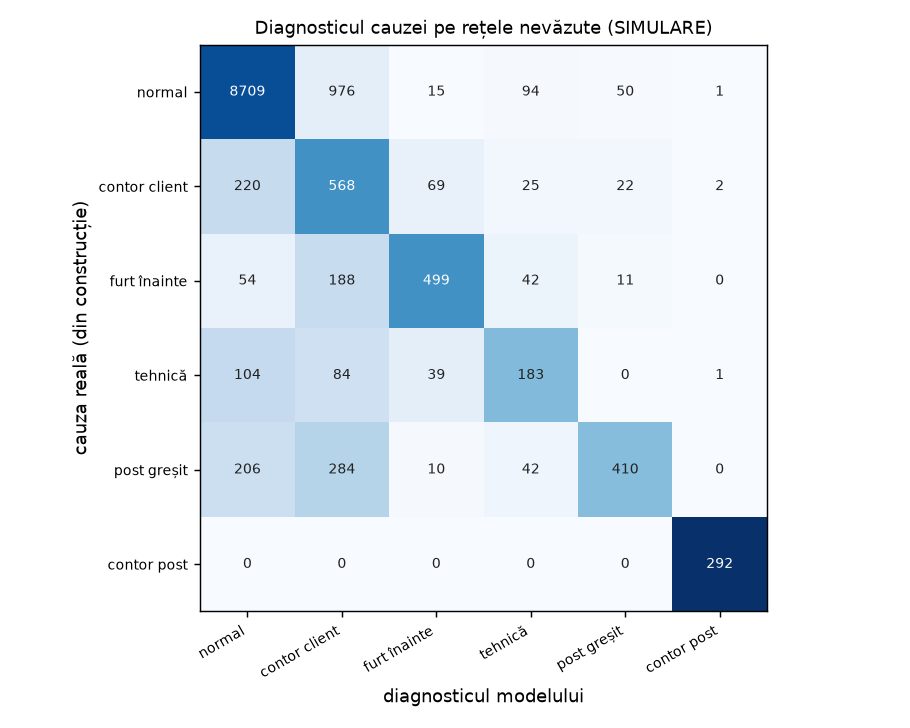
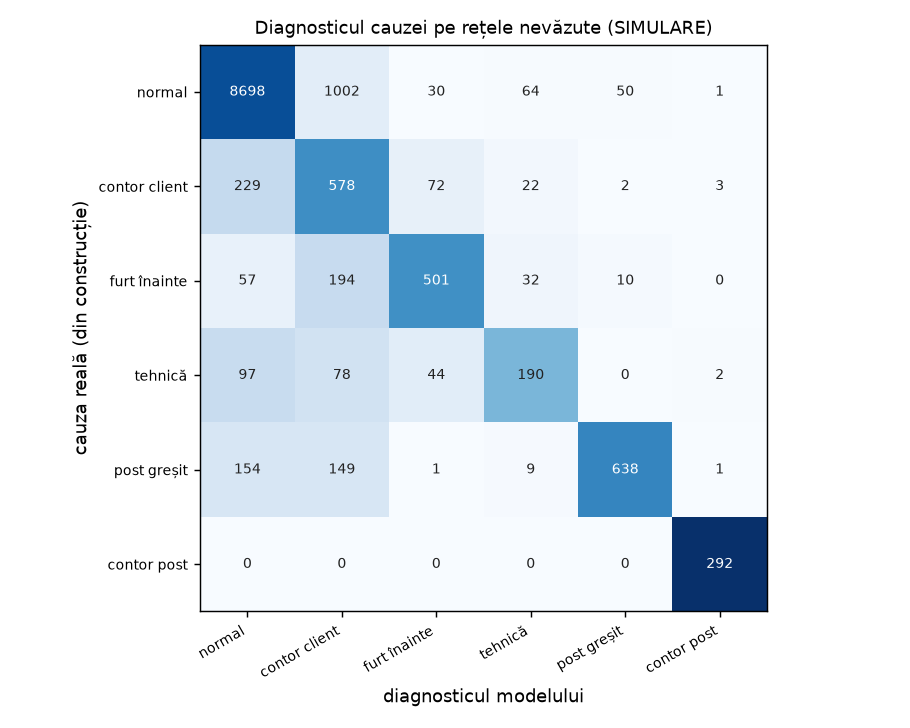
Bilanț: identificarea topologiei din tensiuni (client la postul greșit 0,57 → 0,77, F1 macro 0,71); rezumatul perechii; fișa modelului și cifrele pentru prezentare la zi

diff --git a/src/cyberpunks/a_bilant/dataset.py b/src/cyberpunks/a_bilant/dataset.py
@@ -251,6 +251,11 @@ def run_post(args: tuple[dict, dict, str]) -> dict:
         moved["rec"] = np.where(day >= moved["onset"], imp[moved["customer"]], 0.0).astype("float32")
         moved["volt"] = w.cust_voltage[moved["customer"]]
     vmed = np.median(w.cust_voltage[keep], axis=0)
+    # candidatul pentru „legat fizic la alt post”: contorul din bază cu tensiunea cea mai puțin asemănătoare cu a postului,
+    # pe toată perioada (simplificare: un singur candidat pe post)
+    all_h = np.arange(T)
+    cc_all = _vcorr(w.cust_voltage[keep], vmed, all_h)
+    cand_volt = w.cust_voltage[np.flatnonzero(keep)[int(np.argmin(cc_all))]].astype("float32")
 
     # semnalele contoarelor, pe zi: zi cu zero, zi blocată (24 de valori egale), consum negativ noaptea la neprosumatori
     cust_daily = np.zeros((n, D))
@@ -331,9 +336,43 @@ def run_post(args: tuple[dict, dict, str]) -> dict:
         "bal_h": w.balance_kwh.astype("float32"),
         "db_h": db.astype("float32"),
         "vmed": vmed.astype("float32"),
+        "cand_volt": cand_volt,
         "moved": moved,
         "seconds": time.perf_counter() - t0,
     }
+
+
+def voltage_topology(res: dict, nb: dict, wx: world.Weather, ev: list[int]) -> pd.DataFrame:
+    """Identificarea topologiei din tensiuni (Short 2013; comparația din 2022, `docs/research/bilant_lit.md`).
+
+    Pentru candidații fiecărui post (contorul cu tensiunea cea mai ciudată și, la receptor, clientul venit din altă
+    parte, care e în baza lui), pe fereastra de 14 zile:
+    - `volt_elsewhere`: cât de mult seamănă un candidat mai bine cu un vecin decât cu postul lui (corelație vecin − proprie);
+    - `volt_claimed`: cât de mult seamănă candidatul unui vecin mai bine cu acest post decât cu postul lui.
+    """
+    cands: dict[str, list[np.ndarray]] = {k: [r["cand_volt"]] for k, r in res.items()}
+    for r in res.values():
+        mv = r["moved"]
+        if mv and mv["receiver"] in cands:
+            cands[mv["receiver"]].append(mv["volt"])
+    rows = []
+    for e in ev:
+        hours = np.flatnonzero((wx.local_day > e - WINDOW) & (wx.local_day <= e))
+        gain: dict[str, float] = {}
+        claim: dict[str, float] = {}
+        for p, cl in cands.items():
+            qs = [q for q in nb.get(p, []) if q in res]
+            if not qs:
+                continue
+            V = np.stack(cl)
+            own = _vcorr(V, res[p]["vmed"], hours)
+            for q in qs:
+                g = _vcorr(V, res[q]["vmed"], hours) - own
+                gain[p] = max(gain.get(p, -1.0), float(g.max()))
+                claim[q] = max(claim.get(q, -1.0), float(g.max()))
+        for p in res:
+            rows.append({"post_id": p, "day": e, "volt_elsewhere": gain.get(p, 0.0), "volt_claimed": claim.get(p, 0.0)})
+    return pd.DataFrame(rows)
 
 
 def eval_days(D: int) -> list[int]:
@@ -430,6 +469,7 @@ def build(pool: str, workers: int = 4, limit: int | None = None) -> pd.DataFrame
         vc.loc[better, "vcorr_min"] = vc.loc[better, "moved_corr"]
         vc.loc[better, "vcorr_min_customer"] = -1  # clientul venit din altă parte
         vc = vc.drop(columns="moved_corr")
+    vc = vc.merge(voltage_topology(res, neighbors(meta), wx, ev), on=["post_id", "day"], how="left")
     posts = pd.DataFrame([{"post_id": k, **{a: b for a, b in r["static"].items() if not isinstance(b, list)}} for k, r in res.items()]).merge(meta, on="post_id", how="left")
     out = OUT / pool
     out.mkdir(parents=True, exist_ok=True)

diff --git a/src/cyberpunks/a_bilant/predict.py b/src/cyberpunks/a_bilant/predict.py
@@ -350,6 +350,13 @@ def run(scenario: str, date: str | None = None, pool: str = "pop") -> Path:
         who = f"{CLASS_RO[label]}, probabil clientul {extra['suspect_meter']} ({extra['suspect_meter_reason_ro']})" if label == "contor_client" and "suspect_meter" in extra else CLASS_RO[label]
         if r["abstain"]:
             summary = f"Postul {pid}: ~{lei_month:.0f} lei pe lună pierduți peste normal. Nu sunt sigur de cauză ({r['abstain_reason']}): {CLASS_RO[label]} {r['p_label']:.0%} sau {CLASS_RO[r['second']]} {r['p_second']:.0%}. Decide un om."
+        elif label == "client_post_gresit":
+            side = "lipsă" if float(r["r_mean_kwh"]) > 0 else "surplus"
+            mirror = str(r.get("mirror_post") or "")
+            if mirror:
+                extra["pair_post"] = mirror
+            other = f" Perechea probabilă: {mirror}." if mirror else ""
+            summary = f"Postul {pid}: {side} de ~{abs(float(r['r_mean_kwh'])):.1f} kWh/zi (~{lei_month:.0f} lei pe lună contați la postul greșit). Cauza probabilă ({r['p_label']:.0%}): client trecut la postul greșit în bază; tensiunea contorului seamănă cu a altui post.{other} Recomand: {ACTION_RO[action]}."
         elif label == "contor_bilant_setat":
             summary = f"Postul {pid}: contorul postului arată de {r['bal_db_ratio']:.2f} ori suma clienților ({r['p_label']:.0%} contor de post setat greșit). Lipsa de ~{r['r_mean_kwh']:.0f} kWh/zi e doar pe hârtie. Recomand: {ACTION_RO[action]} (raportul de transformare)."
         else:

diff --git a/src/cyberpunks/a_bilant/windows.py b/src/cyberpunks/a_bilant/windows.py
@@ -57,6 +57,8 @@ WIN_FEATURES = [
     "quad_ratio",
     "intercept_jump_kwh_h",
     "linear_jump",
+    "volt_elsewhere",
+    "volt_claimed",
 ]
 # calculate și salvate, dar scoase din model: au ridicat pierderea tehnică (F1 0,46 → 0,47) și au coborât F1 macro
 # (0,668 → 0,658), diferențe în zgomot (7 nov., 15:15)
@@ -195,8 +197,10 @@ def build_windows(d: pd.DataFrame, pred: pd.DataFrame, pool: str, days: list[int
             try:
                 v = vc.loc[(p, e)]
                 vmin, vgap = float(v["vcorr_min"]), float(v["vcorr_med"] - v["vcorr_min"])
+                v_else = float(v.get("volt_elsewhere", 0.0) or 0.0)
+                v_claim = float(v.get("volt_claimed", 0.0) or 0.0)
             except KeyError:
-                vmin, vgap = 1.0, 0.0
+                vmin, vgap, v_else, v_claim = 1.0, 0.0, 0.0, 0.0
             lab = w.iloc[-1]
             cls = lab["true_class"]
             ex = float(w["true_excess_kwh"].mean())
@@ -241,6 +245,8 @@ def build_windows(d: pd.DataFrame, pred: pd.DataFrame, pool: str, days: list[int
                     "loss_ratio_cv": float(np.std(ratio_d) / max(abs(np.mean(ratio_d)), 0.1)),
                     "ratio_vs_gis": ratio_gis,
                     "r_vs_gis_kwh": r_gis,
+                    "volt_elsewhere": v_else,
+                    "volt_claimed": v_claim,
                     "quad_ratio": q_ratio,
                     "intercept_jump_kwh_h": a_jump,
                     "linear_jump": b_jump,

diff --git a/reports/bilant/error_analysis.md b/reports/bilant/error_analysis.md
@@ -42,37 +42,37 @@ Corect, după cât timp a trecut de la apariția problemei (fereastra are 14 zil
 
 | de când există problema | ferestre | corect_model | corect_reguli |
 |---|---|---|---|
-| 0-3 zile | 231 | 0.59 | 0.14 |
-| 4-7 | 257 | 0.62 | 0.15 |
-| 8-14 | 327 | 0.64 | 0.24 |
-| 15-30 | 445 | 0.67 | 0.29 |
-| 31-90 | 833 | 0.61 | 0.38 |
-| peste 90 | 1262 | 0.51 | 0.25 |
+| 0-3 zile | 231 | 0.64 | 0.14 |
+| 4-7 | 257 | 0.63 | 0.15 |
+| 8-14 | 327 | 0.67 | 0.24 |
+| 15-30 | 445 | 0.69 | 0.29 |
+| 31-90 | 833 | 0.70 | 0.38 |
+| peste 90 | 1262 | 0.62 | 0.25 |
 
 Corect, după mărimea lipsei reale:
 
 | lipsa reală | ferestre | corect_model | corect_reguli |
 |---|---|---|---|
-| sub 2 kWh/zi | 273 | 0.30 | 0.01 |
-| 2-5 | 492 | 0.47 | 0.06 |
-| 5-10 | 489 | 0.47 | 0.10 |
-| 10-25 | 844 | 0.51 | 0.23 |
-| peste 25 | 1257 | 0.78 | 0.51 |
+| sub 2 kWh/zi | 273 | 0.37 | 0.01 |
+| 2-5 | 492 | 0.58 | 0.06 |
+| 5-10 | 489 | 0.58 | 0.10 |
+| 10-25 | 844 | 0.60 | 0.23 |
+| peste 25 | 1257 | 0.82 | 0.51 |
 
 Confuziile cele mai dese:
 
-- pierdere normală → contor de client defect sau manipulat: 976 ferestre
-- client trecut la postul greșit în bază → contor de client defect sau manipulat: 284 ferestre
-- contor de client defect sau manipulat → pierdere normală: 220 ferestre
-- client trecut la postul greșit în bază → pierdere normală: 206 ferestre
-- furt înainte de contor → contor de client defect sau manipulat: 188 ferestre
-- pierdere tehnică (cablu, faze dezechilibrate) → pierdere normală: 104 ferestre
-- pierdere normală → pierdere tehnică (cablu, faze dezechilibrate): 94 ferestre
-- pierdere tehnică (cablu, faze dezechilibrate) → contor de client defect sau manipulat: 84 ferestre
+- pierdere normală → contor de client defect sau manipulat: 1002 ferestre
+- contor de client defect sau manipulat → pierdere normală: 229 ferestre
+- furt înainte de contor → contor de client defect sau manipulat: 194 ferestre
+- client trecut la postul greșit în bază → pierdere normală: 154 ferestre
+- client trecut la postul greșit în bază → contor de client defect sau manipulat: 149 ferestre
+- pierdere tehnică (cablu, faze dezechilibrate) → pierdere normală: 97 ferestre
+- pierdere tehnică (cablu, faze dezechilibrate) → contor de client defect sau manipulat: 78 ferestre
+- contor de client defect sau manipulat → furt înainte de contor: 72 ferestre
 
-- „Nu sunt sigur”: modelul se abține în 13.1% din ferestre. Acolo ar fi avut dreptate în 27% din cazuri, iar în rest în 89%. Abținerea scoate deci cazurile grele și le trimite la om.
+- „Nu sunt sigur”: modelul se abține în 12.7% din ferestre. Acolo ar fi avut dreptate în 33% din cazuri, iar în rest în 90%. Abținerea scoate deci cazurile grele și le trimite la om.
 - Problemele foarte noi (0-3 zile) se văd greu: fereastra are încă puține zile cu problemă. Cele foarte vechi (peste 90 de zile) intră treptat în istoricul postului, care învață „normalul” cu tot cu problemă. Pe date reale, istoricul trebuie învățat doar din perioade verificate (după vizita echipei), nu din toate zilele.
-- Cele mai dese confuzii sunt între contorul de client și pierderea normală, în ambele sensuri. Cauza e mărimea: un contor de client lipsește adesea doar câțiva kWh pe zi, cât eroarea pierderii normale (vezi tabelul pe mărimi). Sub 2 kWh/zi, modelul are dreptate doar în 30% din cazuri.
+- Cele mai dese confuzii sunt între contorul de client și pierderea normală, în ambele sensuri. Cauza e mărimea: un contor de client lipsește adesea doar câțiva kWh pe zi, cât eroarea pierderii normale (vezi tabelul pe mărimi). Sub 2 kWh/zi, modelul are dreptate doar în 37% din cazuri.
 - Clientul la postul greșit se confundă cel mai des cu contorul de client: la postul cu lipsă, un client „dispare” din bază, iar semnătura seamănă cu un contor oprit. Le desparte vecinul cu surplus egal, dar semnalul dispare când vecinul are și el o problemă sau când surplusul e mic față de eroarea pierderii normale.
 - Contorul de post setat greșit (×2) e prins aproape mereu: raportul post/clienți e un semnal foarte curat.
 
@@ -116,10 +116,10 @@ Pe tipuri de problemă (cele care nu schimbă totalul zilei, ca profilul inversa
 
 ### Unde ajută
 
-- **Cauzele pe care contoarele nu le văd deloc.** Doar contoarele (modelul A) găsesc 0 din aceste probleme, prin construcție: nu au cum să vadă un branșament direct, un cablu care pierde sau un contor de post setat greșit. Bilanțul găsește postul în: furt înainte de contor 74% (cauza corectă 55%), pierdere tehnică 65% (42%), contorul postului setat greșit 99% (99%), client la postul greșit 50% (30%) din ferestrele de test.
-- Energia: bilanțul găsește 85% din energia lipsă din aceste cauze, adică ~25.010 lei pe lună pe cele 300 de posturi ale hărții (la 0,70 lei/kWh). Din posturile marcate, 13% sunt de fapt normale.
+- **Cauzele pe care contoarele nu le văd deloc.** Doar contoarele (modelul A) găsesc 0 din aceste probleme, prin construcție: nu au cum să vadă un branșament direct, un cablu care pierde sau un contor de post setat greșit. Bilanțul găsește postul în: furt înainte de contor 74% (cauza corectă 55%), pierdere tehnică 64% (42%), contorul postului setat greșit 99% (99%), client la postul greșit 53% (42%) din ferestrele de test.
+- Energia: bilanțul găsește 85% din energia lipsă din aceste cauze, adică ~25.137 lei pe lună pe cele 300 de posturi ale hărții (la 0,70 lei/kWh). Din posturile marcate, 13% sunt de fapt normale.
 - Pe ziua demo, 48% din energia pierdută peste normal nu apare la niciun contor de client.
-- Diagnosticul cauzei bate tabelul de reguli din concept: F1 macro 0,67 față de 0,48. Clientul la postul greșit: 0,57 (reguli 0,34), după trăsătura „oglindă” (lipsa la un post și surplusul la vecin, zi de zi) și legarea celor două capete ale perechii. Pierderea tehnică: 0,46 (reguli 0,28).
+- Diagnosticul cauzei bate tabelul de reguli din concept: F1 macro 0,71 față de 0,48. Clientul la postul greșit: 0,77 (reguli 0,34), după trăsătura „oglindă” (lipsa la un post și surplusul la vecin, zi de zi) și legarea celor două capete ale perechii. Pierderea tehnică: 0,52 (reguli 0,28).
 - Planul B (unde montăm întâi contoarele de bilanț): `reports/bilant/plan_b.md`.
 - Când modelul de contoare e mai slab (calitatea SGCC, AUC 0,80), confirmarea din bilanț ridică lei recuperați în primele 10 verificări pe zi de la 126 la 456.
 
@@ -130,5 +130,5 @@ Pe tipuri de problemă (cele care nu schimbă totalul zilei, ca profilul inversa
 - De ce: un post are adesea mai multe contoare cu probleme deodată, iar lipsa de la post e suma lor, deci nu arată care contor e de vină. Problemele mici (sub 2 kWh/zi) se pierd în zgomotul pierderii normale. Tipurile care nu schimbă totalul zilei (profil inversat, ceas decalat, salturi) nu se văd deloc în bilanț.
 - **Să coboare scorul unui contor** pe un post fără lipsă: pe scorurile reale ale lui A asta strica lista (AUC 0,918 → 0,907), așa că fuziunea doar confirmă.
 - **Să rezolve „nu sunt sigur” al lui A:** pe ziua demo, 0 din 5 cazuri corecte. Funcția e oprită.
-- Contorul de client în lumea cu defectele lui A: F1 0,38. Multe tipuri ale lui A au lipsă mică sau zero la totalul zilei.
+- Contorul de client în lumea cu defectele lui A: F1 0,40. Multe tipuri ale lui A au lipsă mică sau zero la totalul zilei.
 

diff --git a/reports/bilant/model_card.md b/reports/bilant/model_card.md
@@ -33,22 +33,22 @@ Pe lotul hărții, defectele de contor sunt exact cele ale firului A (`A_ground_
 | Pierderea normală, MAE (kWh/zi) | **5,30** (14% din 37,0) | formula fizică I²R 14,91; procent fix 20,59 |
 | Același, fără istoricul postului | 12,56 | - |
 | Acoperirea intervalului P10-P90 | 88,1% | formula fizică 86,6% (interval de ~10 ori mai larg) |
-| Diagnosticul, F1 macro | **0,67** | tabelul de reguli din concept 0,48 |
-| Diagnosticul, exactitate | 0,81 | 0,78 |
+| Diagnosticul, F1 macro | **0,71** | tabelul de reguli din concept 0,48 |
+| Diagnosticul, exactitate | 0,83 | 0,78 |
 | Primele 10 posturi pe zi prind din energia lipsă | 85% | 80% |
 | **Energia pierdută pe care niciun contor de client nu o vede** (furt înainte de contor, pierderi tehnice peste normal, client la postul greșit), ziua demo | **48%** | o vede doar bilanțul |
 | Planul B: energia lipsă găsită cu contoare la 20% din posturi | **36%** | la întâmplare 20%; posturile mari întâi 23% |
 
-F1 pe clase (model / reguli): contor de post setat greșit 0,99 / 0,87, normal 0,91 / 0,90, furt înainte de contor 0,70 / 0,35, client la postul greșit 0,57 / 0,34, pierdere tehnică 0,46 / 0,28, contor de client 0,38 / 0,16. Clientul la postul greșit a urcat de la 0,32 la 0,57 cu trăsătura „oglindă” (lipsa la un post și surplusul la vecin, zi de zi, corelate negativ) și cu legarea celor două capete ale perechii (`diagnose.pair_consistency`).
+F1 pe clase (model / reguli): contor de post setat greșit 0,99 / 0,87, normal 0,91 / 0,90, client la postul greșit 0,77 / 0,34, furt înainte de contor 0,70 / 0,35, pierdere tehnică 0,52 / 0,28, contor de client 0,40 / 0,16. Clientul la postul greșit a urcat de la 0,32 la 0,77 în trei pași: trăsătura „oglindă” (lipsa zilnică la un post corelată negativ cu surplusul vecinului), legarea celor două capete ale perechii (`diagnose.pair_consistency`) și identificarea topologiei din tensiuni (contorul cu tensiunea cea mai ciudată seamănă mai bine cu un vecin decât cu postul lui; `dataset.voltage_topology`).
 
 ### Ce vede doar bilanțul (A are 0 prin construcție)
 
 | Cauza | Postul găsit | și cauza corectă | Energia lipsă găsită |
 |---|---|---|---|
 | furt înainte de contor | 74% | 55% | 86% |
-| pierdere tehnică (cabluri, faze) | 65% | 42% | 95% |
+| pierdere tehnică (cabluri, faze) | 64% | 42% | 95% |
 | contorul postului setat greșit | 99% | 99% | (lipsă doar pe hârtie) |
-| client la postul greșit | 50% | 30% | 70% |
+| client la postul greșit | 53% | 42% | 72% |
 | **total** | | | **85%, ~25.000 lei pe lună** pe cele 300 de posturi |
 
 Din posturile marcate, 13% sunt de fapt normale. Figura: `reports/bilant/bilant_only_causes.png`.
@@ -78,7 +78,7 @@ Modelul se abține și trimite la om (`human_review`) când:
 - primele două cauze sunt la mai puțin de 15 puncte;
 - intervalul pierderii normale e de peste 3 ori mai larg decât lipsa.
 
-Se abține în 13,1% din ferestre; detaliile sunt în `reports/bilant/error_analysis.md`. Posturile fără contor de bilanț nu primesc lucrare de pierderi: trec pe planul B.
+Se abține în 12,7% din ferestre; detaliile sunt în `reports/bilant/error_analysis.md`. Posturile fără contor de bilanț nu primesc lucrare de pierderi: trec pe planul B.
 
 ## Limite cunoscute
 
@@ -87,7 +87,7 @@ Se abține în 13,1% din ferestre; detaliile sunt în `reports/bilant/error_anal
 - Precizia absolută din testul simulat e mică pentru că problemele noi sunt rare: ~10 contoare pe zi din ~24.000.
 - „Nu sunt sigur” al lui A nu se rezolvă automat cu bilanțul. Am încercat; pe ziua demo, cele 5 cazuri rezolvate nu aveau nicio problemă reală. Codul există, dar e oprit (`fuse.RESOLVE_ABSTAIN`).
 - Problemele mici (sub 2 kWh/zi) se confundă cu zgomotul pierderii normale. Problemele foarte vechi (peste 90 de zile) intră treptat în istoricul postului. Istoricul ar trebui învățat doar din perioade verificate.
-- Clientul la postul greșit: recall 43%. Postul donator e prins mai greu decât cel cu surplus. Pierderea tehnică veche (peste 60 de zile) sau mică (sub 10 kWh/zi) scapă des, pentru că istoricul postului o învață ca normală.
+- Clientul la postul greșit: recall 67%, precizie 91%. Tensiunea e simulată din calculul de rețea; pe date reale, contoarele trebuie să trimită tensiunea (multe o fac, la 15 minute). Pierderea tehnică veche (peste 60 de zile) sau mică (sub 10 kWh/zi) scapă des, pentru că istoricul postului o învață ca normală.
 - Fazele nu se măsoară direct: dezechilibrul e estimat din pierderi (`extra.phase_rebalance_input`).
 
 ## Bucla de învățare

diff --git a/reports/bilant/demo_posts.md b/reports/bilant/demo_posts.md
@@ -18,15 +18,15 @@ SIMULARE pe date publice, gândită pentru datele PPC. Fiecare caz e verificat c
 ## 3. Contorul postului setat greșit
 
 - **PT-1210**: Postul PT-1210: contorul postului arată de 2.04 ori suma clienților (100% contor de post setat greșit). Lipsa de ~937 kWh/zi e doar pe hârtie. Recomand: întâi citire la distanță și jurnalul de evenimente al contorului (raportul de transformare).
-- Adevărul: raportul de transformare greșit din ziua 104. Toate cele 13 posturi marcate așa au chiar această problemă: False.
+- Adevărul: raportul de transformare greșit din ziua 104. Toate cele 14 posturi marcate așa au chiar această problemă: False.
 
 ## 4. Clientul trecut la postul greșit
 
-- **PT-1155** (lucrarea `A-20250708-PT-1155`): Postul PT-1155: ~1416 lei pe lună pierduți peste normal. Cauza probabilă (81%): client trecut la postul greșit în bază. Recomand: corecție în bază, fără deplasare.
+- **PT-1155** (lucrarea `A-20250708-PT-1155`): Postul PT-1155: lipsă de ~67.4 kWh/zi (~1416 lei pe lună contați la postul greșit). Cauza probabilă (99%): client trecut la postul greșit în bază; tensiunea contorului seamănă cu a altui post. Perechea probabilă: PT-1029. Recomand: corecție în bază, fără deplasare.
 - Adevărul: clientul `PT-1029-C096` e legat fizic la PT-1029, dar din ziua 302 apare în bază la PT-1155. PT-1029 are lipsă, PT-1155 are surplus. Corecția se face în birou, fără deplasare.
 - PT-1029 în lista zilei: client_post_gresit (office_correction).
 
 ## Lista zilei, pe scurt
 
-- 78 lucrări de bilanț; 77 sunt pe posturi care chiar au cel puțin o problemă ascunsă.
-- Acțiuni: inspect_on_site 28, remote_reading 18, grid_inspection 13, human_review 11, office_correction 8.
+- 74 lucrări de bilanț; 74 sunt pe posturi care chiar au cel puțin o problemă ascunsă.
+- Acțiuni: inspect_on_site 27, remote_reading 19, office_correction 13, grid_inspection 10, human_review 5.
